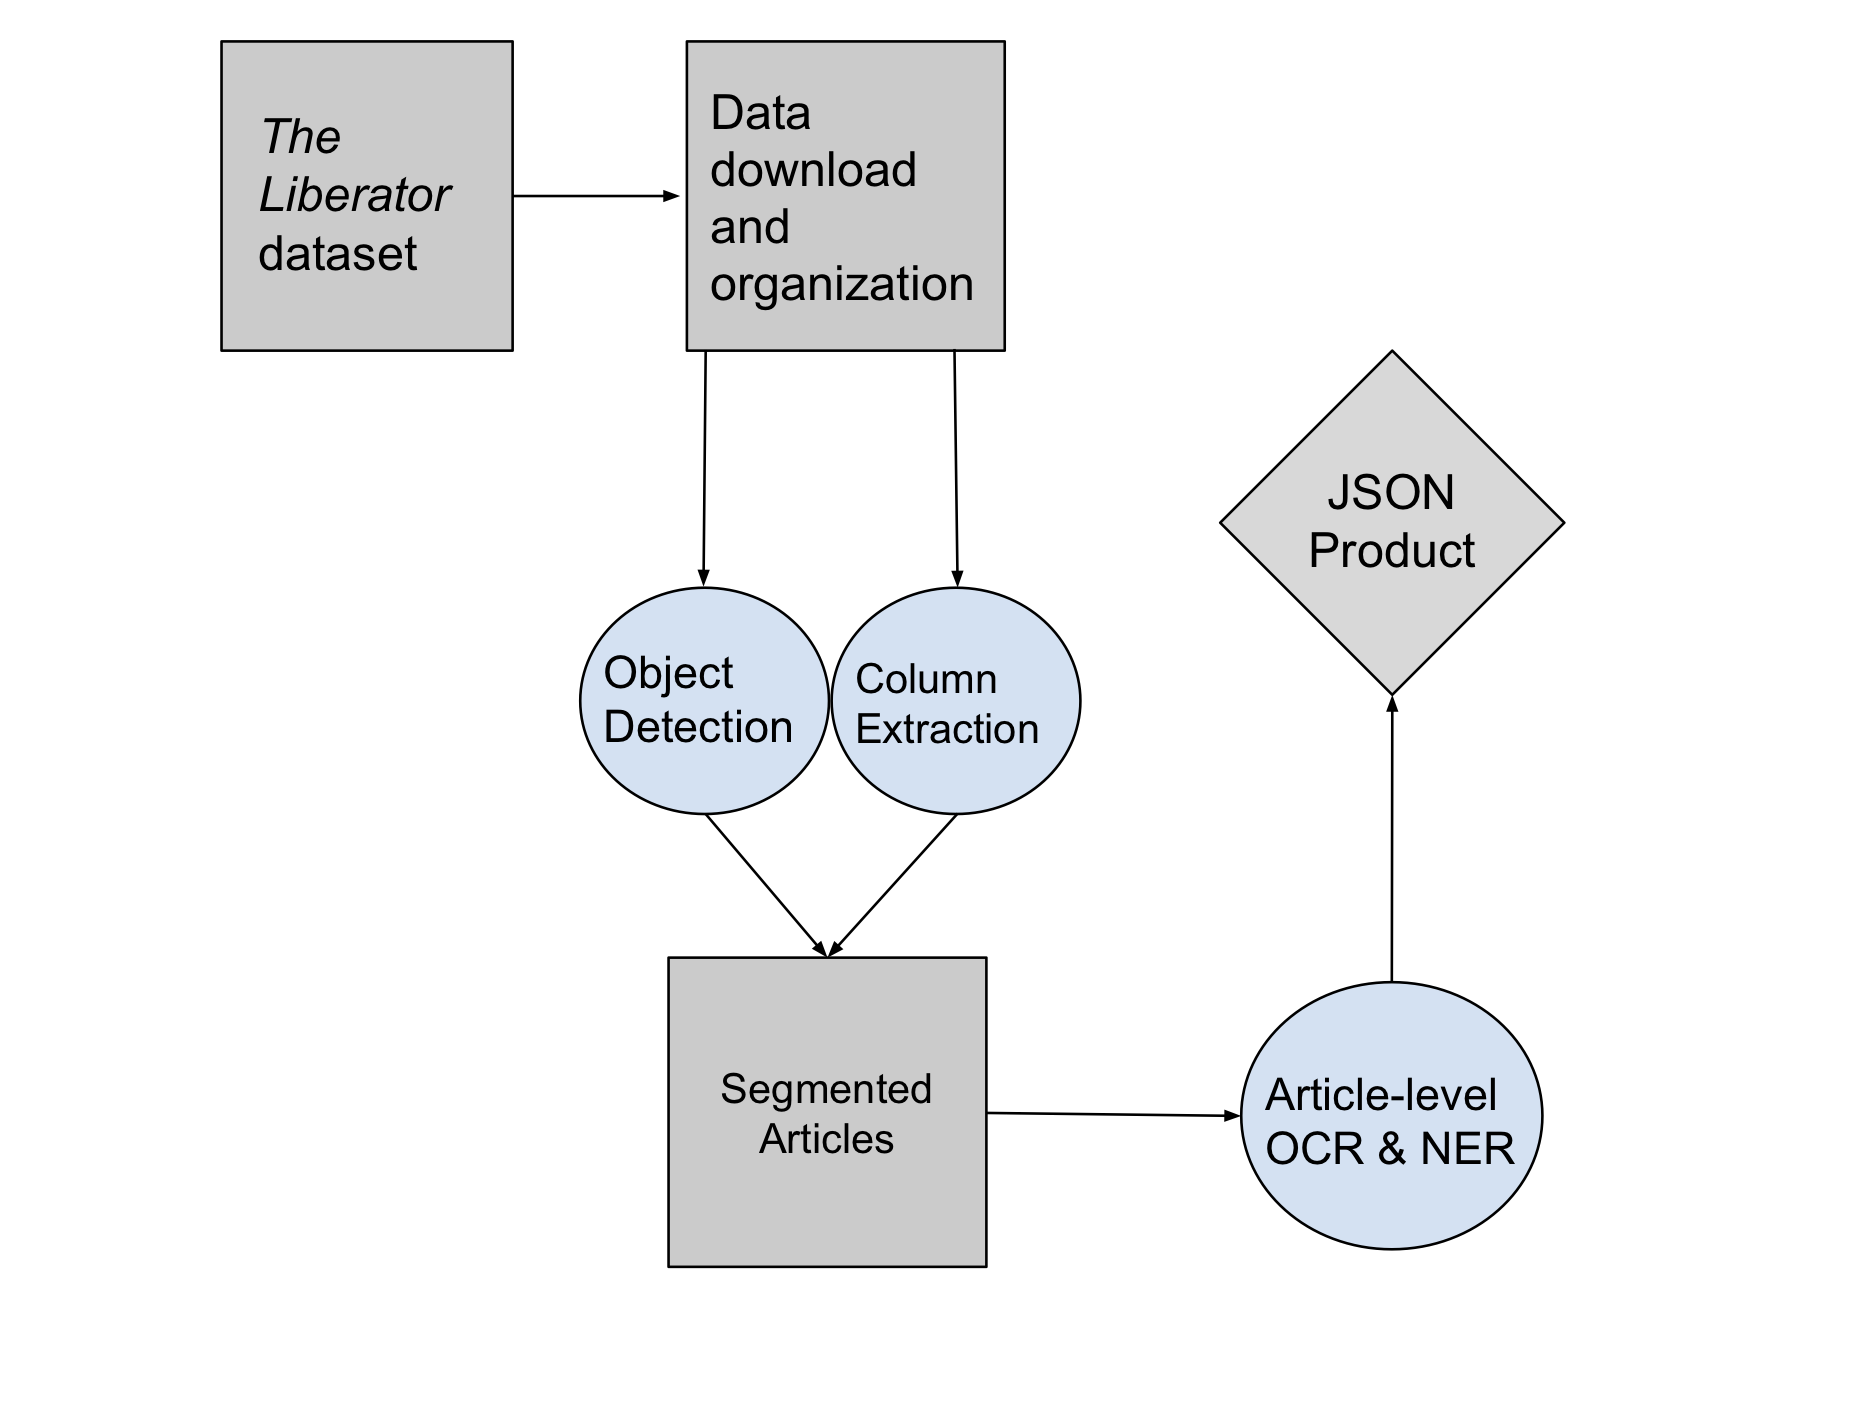
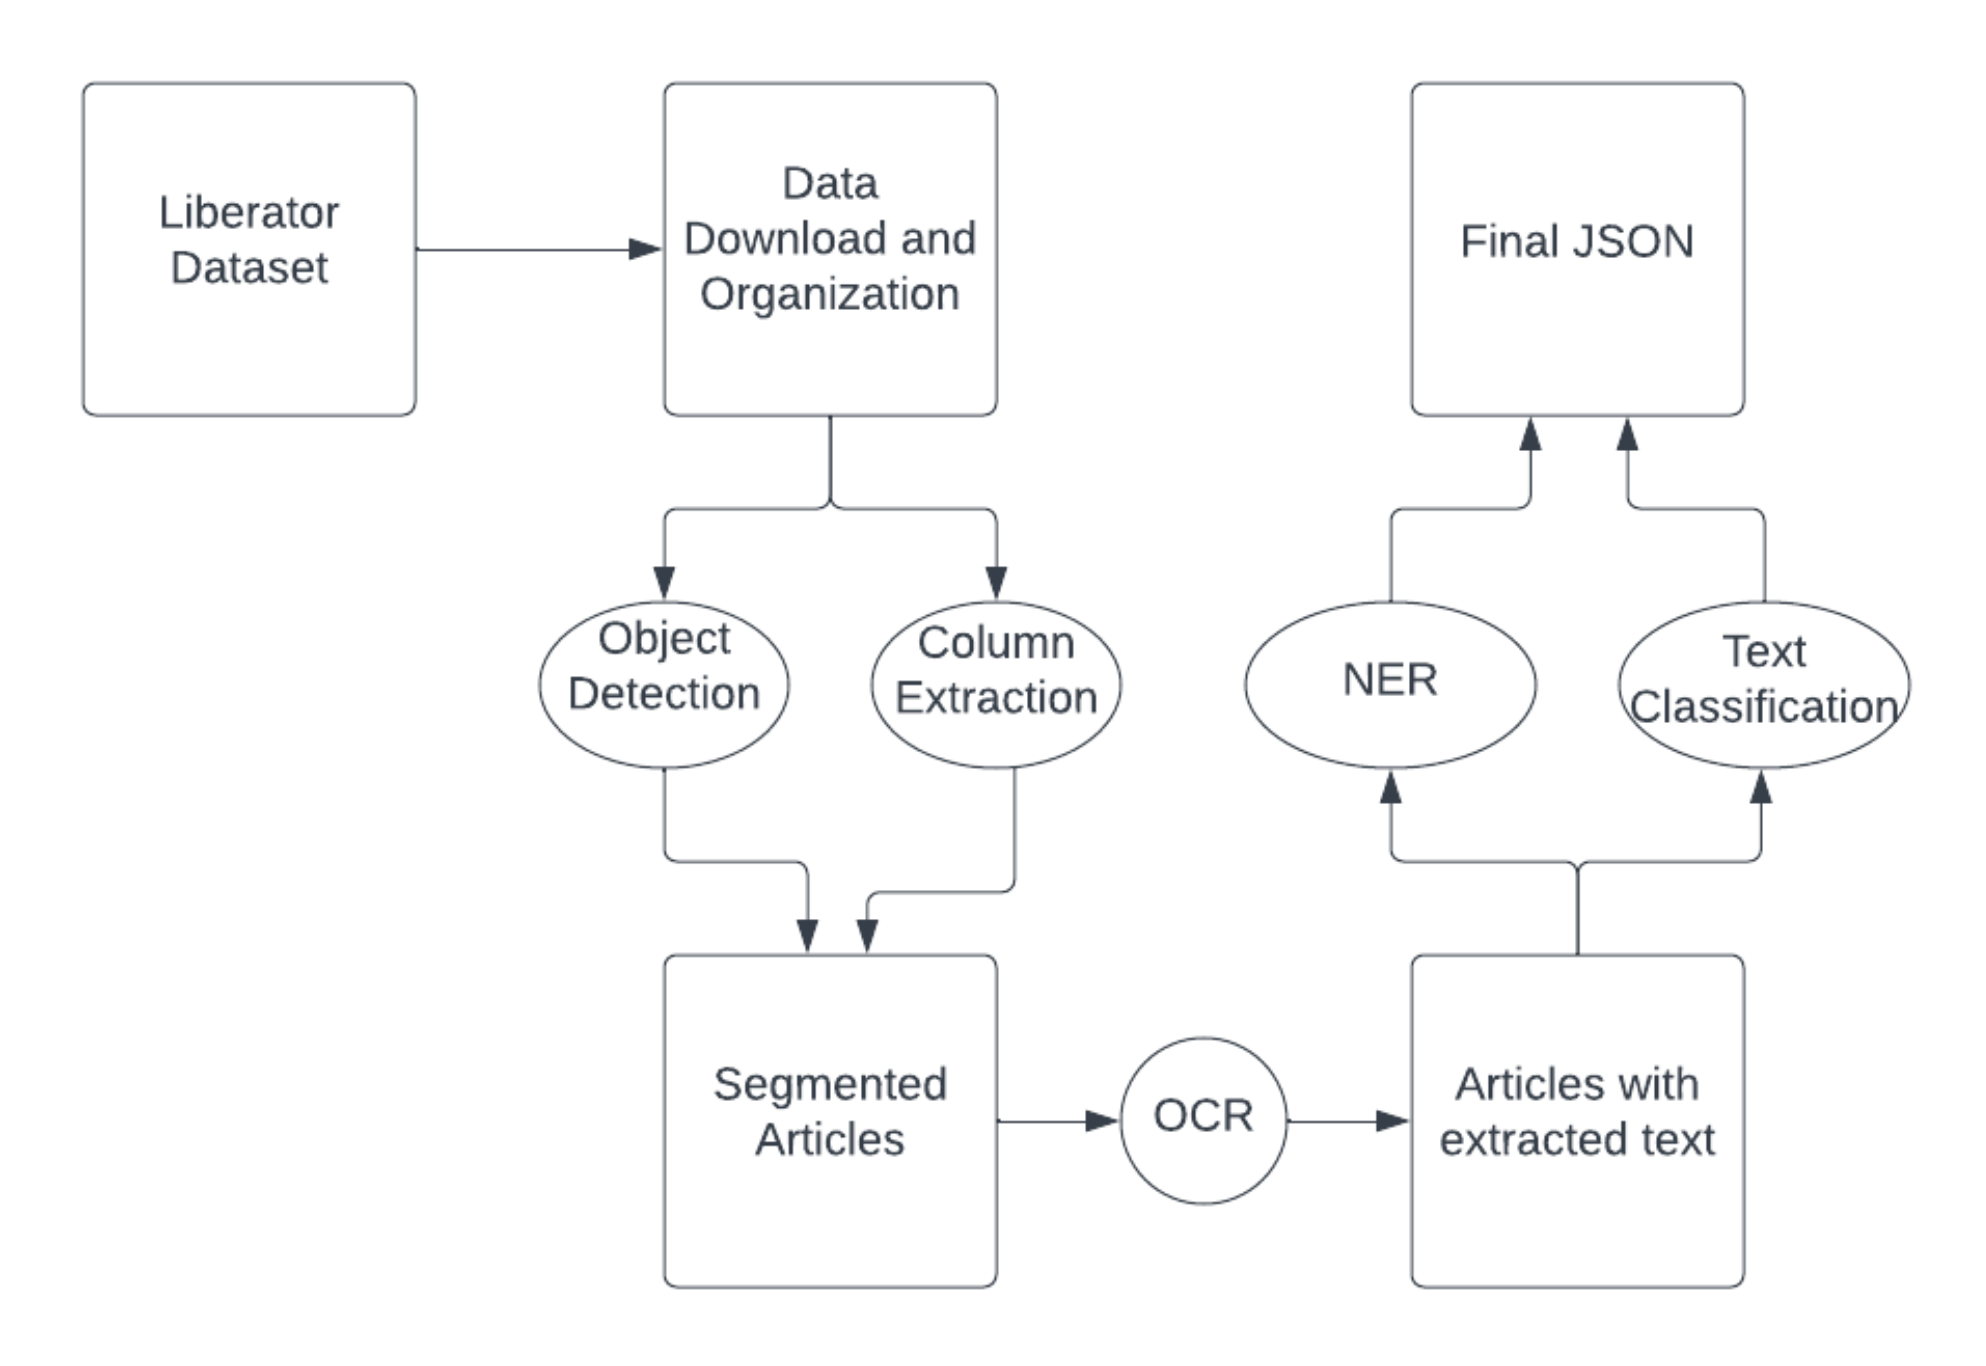
edited readme

diff --git a/README.md b/README.md
@@ -17,28 +17,22 @@ Repository containing code related to Boston University's Spark ML Practicum (CS
   
   ## Why Machine Learning?
   
-  This project and its requirements naturally lend themselves to the advantages of a machine learning approach. OCR and NER tools have been widely improved by machine learning approaches, and there exist vast libraries and toolkits to aid in the simple out-of-the-box development of custom OCR/NER pipelines, some of which will be discussed here. Further, the problem of intelligent and accurate article segmentation necessitates the use of machine learning, specifically that of neural networks. In our problem, as is commonly the case with historic newspaper digitization work, The Liberator dataset is not a perfectly-scanned digitization. Many misaligned scans, damaged papers, and blemished pages throw off any direct segmentation approach. Furthermore, over the 30+ year run of The Liberator, the paper underwent constant design and layout changes, making intelligent article extraction a necessity.
+  This project and its requirements naturally lend themselves to the advantages of a machine learning approach. OCR and NER tools have been widely improved by machine learning approaches, and there exist vast libraries and toolkits to aid in the simple out-of-the-box development of custom OCR/NER pipelines, some of which will be discussed here. Further, the problem of intelligent and accurate article segmentation necessitates the use of machine learning, specifically that of neural networks. In our problem, as is commonly the case with historic newspaper digitization work, The Liberator dataset is not a perfectly-scanned digitization. Many misaligned scans, damaged papers, and blemished pages throw off any direct segmentation approach. Furthermore, over the 30+ year run of The Liberator, the paper underwent constant design and layout changes, making intelligent article extraction a necessity. Additionally, classifying the articles into predefined categories detailed by the Library of Congress is an instance of a problem commonly solved with the use of machine learning, text classification.
 
 ## Birds-Eye-View of Pipeline
 
-<img src="./media/diagram.png" width="700"/>
+<img src="./media/diagram.png" width="600"/>
 
 # Getting Started
 
-## How it Works
-
-The entire pipeline looks for input images in either a directory provided as an argument, or by looking inside of data/input_images if no argument is provided. By simply running main.py without arguments, the entire pipeline will be ran on the provided test files inside of input_images. This is a convenient way to familiarize oneself with the function of the app and also for grading. Otherwise, a full absolute path to a image directory that follows the provided directory organization scheme is also doable.
-
 ## Dependencies
-All Python dependendicies for this pipeline are handled with the Pipfile. Usage of the Pipfile and pipenv is explained in more detail below.
+1. All Python dependencies for this pipeline are handled with python virtual environments. The first part of the model (first_model.py) is run with the first virtual environment, and the second part of the model (second_model.py) is run with the second virtual environment. This is due to competing dependencies - the first model requires python 3.7 due to utilization of tensorflow 1, whereas the second part of the model requires python 3.8 due to the utilizaion of the lbl2vec module. To set up the virtual environments on a local machine, run `make set_up_venvs python_path_one=path/to/python/3.7 python_path_two=path/to/python/3.8`. To set up the virtual environments on the SCC, simply run `make set_up_venvs_scc` and python versions will be taken care of for automatically. 
 
-More pertinently, there are a few packages and files that will need to be manually downloaded and placed in order to run the full pipeline.
+2. bbz-segment/05_predicition/**data/models** - Inside of the subdirectory bbz-segment/05_prediction, it is required to create the subdirectory **data/** and place the models folder containing the pre-trained ML models for article segmentation. This pre-trained TensorFlow model is available [here on Dropbox](https://www.dropbox.com/sh/7tph1tzscw3cb8r/AAA9WxhqoKJu9jLfVU5GqgkFa?dl=0), by the original authors. Please note, that in this directory, you will find two folders: *blkx* and *sep*. The *sep* models are the only ones utilized for this project, so for your own memory considerations, it may be preferable to only download this folder, ensuring in the end that the parent directories are all in the same order (data/models/v3/sep/).
 
-1. bbz-segment/05_predicition/**data/models** - Inside of the subdirectory bbz-segment/05_prediction, it is required to create the subdirectory **data/** and place the models folder containing the pre-trained ML models for article segmentation. This pre-trained TensorFlow model is available [here on Dropbox](https://www.dropbox.com/sh/7tph1tzscw3cb8r/AAA9WxhqoKJu9jLfVU5GqgkFa?dl=0), by the original authors. Please note, that in this directory, you will find two folders: *blkx* and *sep*. The *sep* models are the only ones utilized for this project, so for your own memory considerations, it may be preferable to only download this folder, ensuring in the end that the parent directories are all in the same order (data/models/v3/sep/).
+3. ner/**stanza_resources** - The NER portion of the pipeline uses Stanza, an NLP package by the Stanford NLP Group. stanza-resources/ contains the language processors required to process and tag entities in text. The folder can be found [here on Google Drive](https://drive.google.com/drive/folders/1Le0sxSRzmzdCAIeZRRKjs9mjaD-VCmcd?usp=sharing) and should be placed inside of the directory ner/.
 
-2. ner/**stanza_resources** - The NER portion of the pipeline uses Stanza, an NLP package by the Stanford NLP Group. stanza-resources/ contains the language processors required to process and tag entities in text. The folder can be found [here on Google Drive](https://drive.google.com/drive/folders/1Le0sxSRzmzdCAIeZRRKjs9mjaD-VCmcd?usp=sharing) and should be placed inside of the directory ner/.
-
-3. **config/credentials.json** - For the OCR, we utilize Google Cloud Vision. Accessing the Google CV API requires setting up a service account and setting the proper environment variable to point to your credentials.json file, containing the API Key information. Our pipeline automatically checks and sets the appropriate environment variable to point to a credentials.json file inside of a **config** directory. All that needs to be done is to create a config/ directory in the main project directory and place the Google CV credentials.json (with that same filename) inside of it. Detailed steps to create a service account and download a credentials.json with your API Key can be found here: https://cloud.google.com/docs/authentication/getting-started#creating_a_service_account.
+4. **config/credentials.json** - For the OCR, we utilize Google Cloud Vision. Accessing the Google CV API requires setting up a service account and setting the proper environment variable to point to your credentials.json file, containing the API Key information. Our pipeline automatically checks and sets the appropriate environment variable to point to a credentials.json file inside of a **config** directory. All that needs to be done is to create a config/ directory in the main project directory and place the Google CV credentials.json (with that same filename) inside of it. Detailed steps to create a service account and download a credentials.json with your API Key can be found here: https://cloud.google.com/docs/authentication/getting-started#creating_a_service_account.
 
 Without a credentials.json, the pipeline will still run up to article segmentation, and then announce that it is quitting the rest of the pipeline.
 
@@ -50,15 +44,7 @@ Get the repo with `git clone https://github.com/SikandAlex/CS501-BPL-Liberator.g
 
 Next, using the information under the **Dependencies** section, ensure each of the necessary packages are properly placed.
 
-Then, install Python dependencies. Use `pip3 install pipenv` to get pipenv first, then, from __inside of the project root directory__:
-1. `pipenv install`
-2. `pipenv shell`
-
-Now you should have all of the dependencies installed.
-
-Finally, you are ready to run. To run with the provided test files inside of data/input_images/, just run with `python main.py`. To run on another directory,
-run with `python main.py -i <absolute path to input directory>`. The input directory you are providing must follow the same issue organization and naming schema
-as data/input_images/. Please read the Notes below before a full run.
+The entire pipeline looks for input images in either a directory provided as an argument, or by looking inside of data/input_images if no argument is provided. By simply running `make run_model` (if on a local machine) or `make run_model_scc` (if on the SCC) without arguments, the entire pipeline will be ran on the provided test files inside of input_images. This is a convenient way to familiarize oneself with the function of the app and also for grading. Otherwise, a full absolute path to an image directory that follows the provided directory organization scheme is also doable (make run_model input_directory=path/to/input/directory). The input directory you are providing must follow the same issue organization and naming schema as data/input_images/. Please read the Notes below before a full run.
 
 ## Notes
 
@@ -68,7 +54,7 @@ Note that this pipeline is heavy in computing power and time. Running the three-
 
 If running on the SCC, I've found that the best method is to request a Desktop node from interactive apps rather than running directly on a terminal in SCC. Due to the way user paths/environment variables are set in the SCC, running pipenv in the terminal may be problematic.
 
-The TensorFlow version needed to run the pre-trained model is an older one (1.15), but this is handled by the Pipfile. Nonetheless, there are some warning messages that may appear during a full run of the pipeline. The model is still able to run fully despite these terminal messages.
+The TensorFlow version needed to run the pre-trained model is an older one (1.15), but this is handled by the requirements_1.txt file. Nonetheless, there are some warning messages that may appear during a full run of the pipeline. The model is still able to run fully despite these terminal messages.
 
 ## Data Downloader/Input Format
 
@@ -78,7 +64,7 @@ Under the SCC class directory, under /liberator_team/liberator_data/, is the ful
 
 # Detailed Breakdown of Pipeline
 
-The actual pipeline processes the input in four major stages: column extraction & object detection, article segmentation, OCR & NER, and final output consolidation.
+The actual pipeline processes the input in four major stages: column extraction & object detection, article segmentation, OCR & NER, text classification, and final output consolidation.
 
 ## Column Extraction and Object Detection
 
@@ -108,9 +94,15 @@ After article segmentation, the pipeline runs a cropping script upon all of the 
 
 The extracted text from the OCR portion is put through Stanford CoreNLP's Stanza package, an NLP package for entity recognition. Out of the box, this package is very simple to use, effective, and free as well. We've found excellent results in Stanza and with its ease-of-use, ultimately chose this package for our NER requirements. Another package considered was spaCy entity recognizer, and spaCy was again used for the attempted spell-correction portion of the pipeline.
 
+## Text Classification
+
+After the OCR & NER are completed, the text classification part of the model begins (second_model.py). Given the fact that there is no labeled data, we implemented an unsupervised approach to multi-label text classification called lbl2vec. The github repo for that project can be viewed [here](https://github.com/sebischair/Lbl2Vec). This model takes in the labels to classify text as, keywords associated with these labels (specified by our sponsor at BPL, Eben English), along with the documents we are classifying and automatically produces similarity scores for each document to each respective label.
+
+One important note is that the source code for lbl2vec uses [doc2vec](https://radimrehurek.com/gensim/models/doc2vec.html) under the hood. It automatically specifies a parameter for the doc2vec that ignores all words that are represented under 50 times in the dataset. We found this parameter to be beneficial for the model's prediction when being run on a large number of issues (10+). However, when running on 3 or less issues it causes the model to not recognize all keywords for a given label, leading the model training sequence to crash. We have found for testing purposes, an easy workaround is to simply specify "the" as one of the keywords for each label to ensure it does not crash, or by changing the internal source code to not specify the `min_count` parameter.
+
 ## JSON Output
 
-The final output of the entire pipeline is a JSON output full of the entire input dataset's processing. The output JSON encodes article information, including file/page location, location coordinates, OCR text, title, and named entities. 
+The final output of the entire pipeline is a JSON output full of the entire input dataset's processing. The output JSON encodes article information, including file/page location, location coordinates, OCR text, title, named entities, and the three most likely subjects as determined by the lbl2vec model. 
 
 The final presentation of this project for Spark! gave a detailed breakdown of the JSON output and its analogy to the actual Liberator pages. The presentation is available [here on Google Slides](https://docs.google.com/presentation/d/1ic3R6HgVVC_7Ymgjw_hyrITFRV563MjEC8D31PpCte4/edit?usp=sharing).
 
